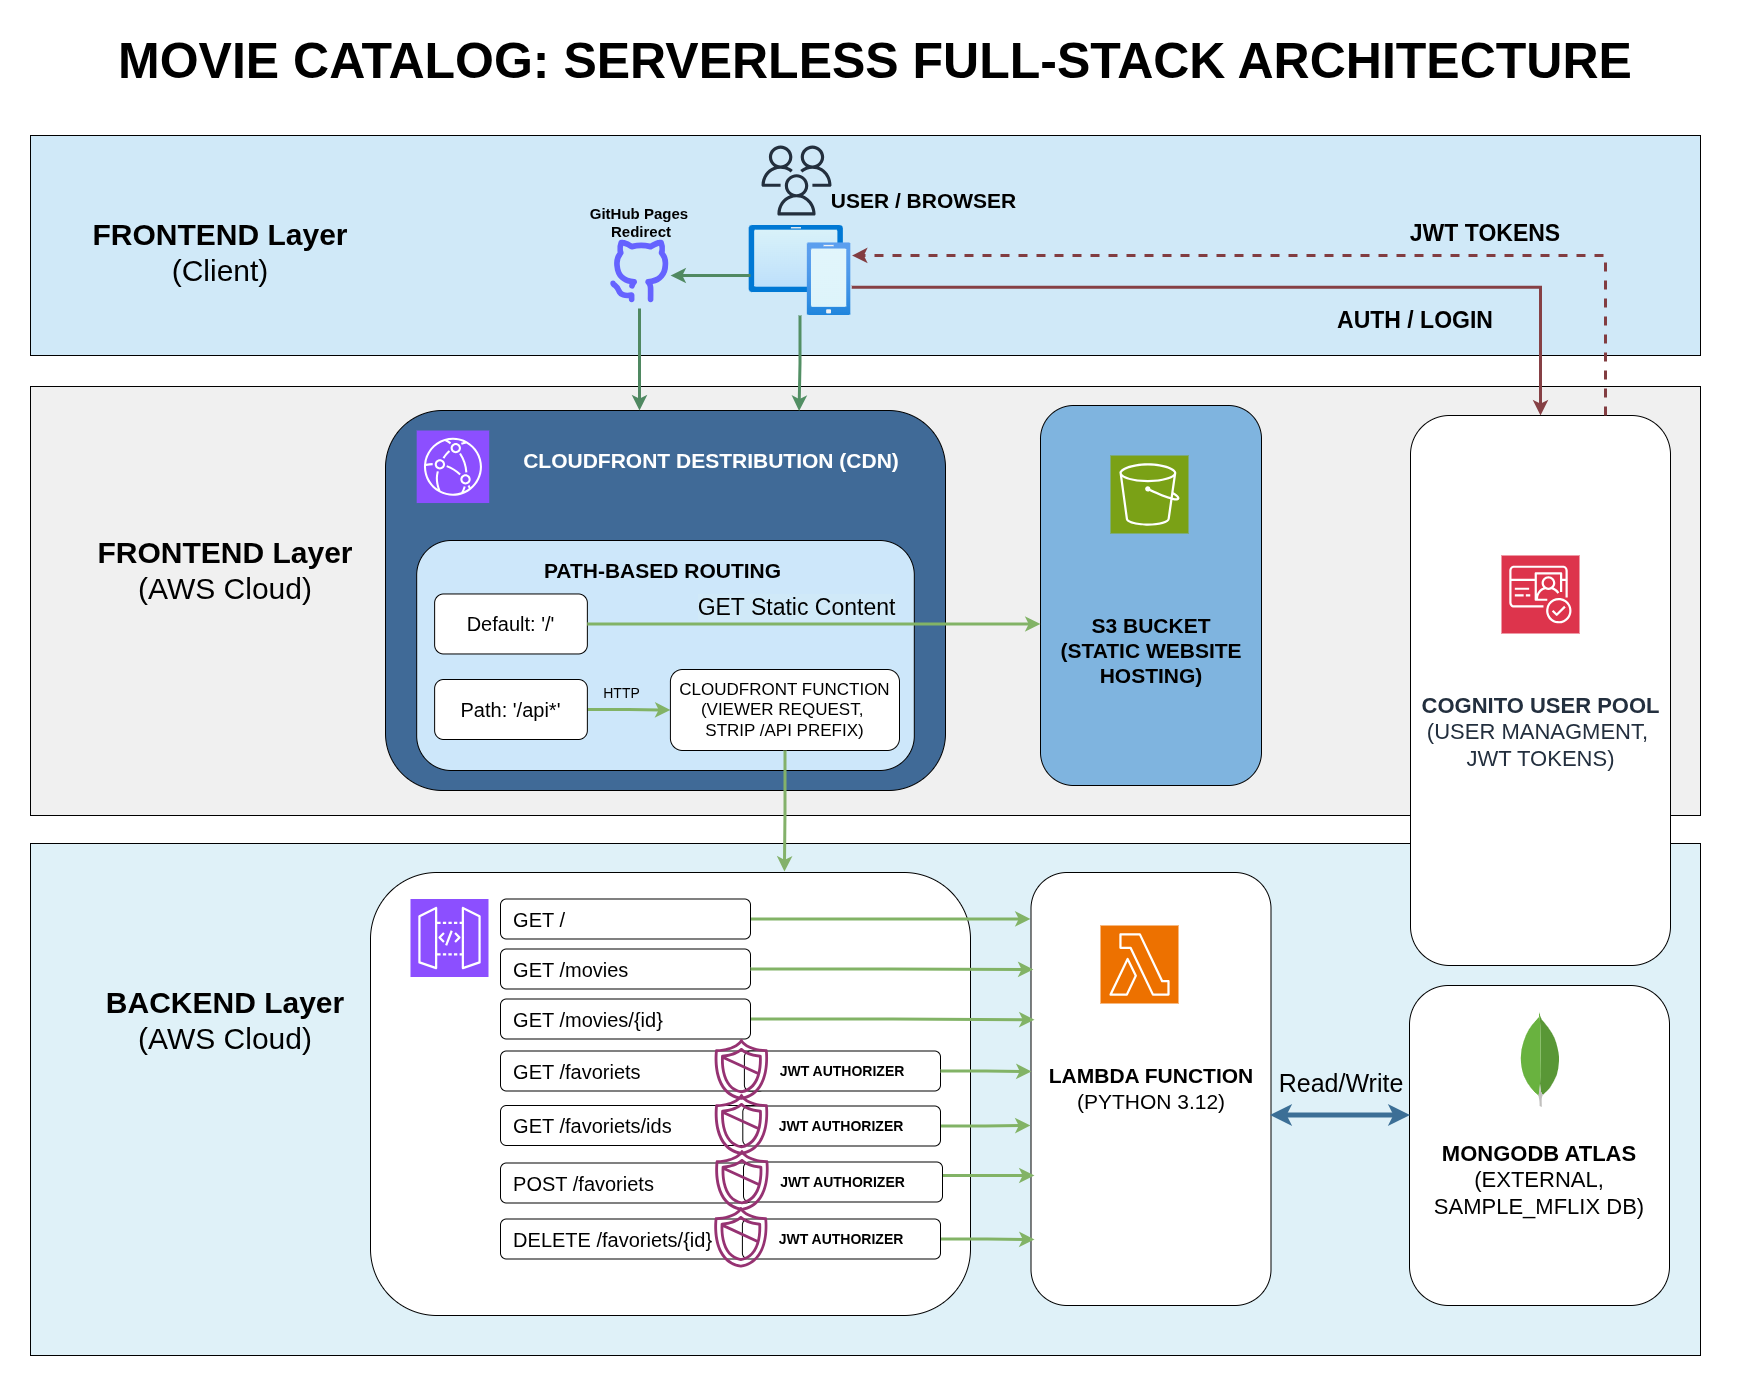
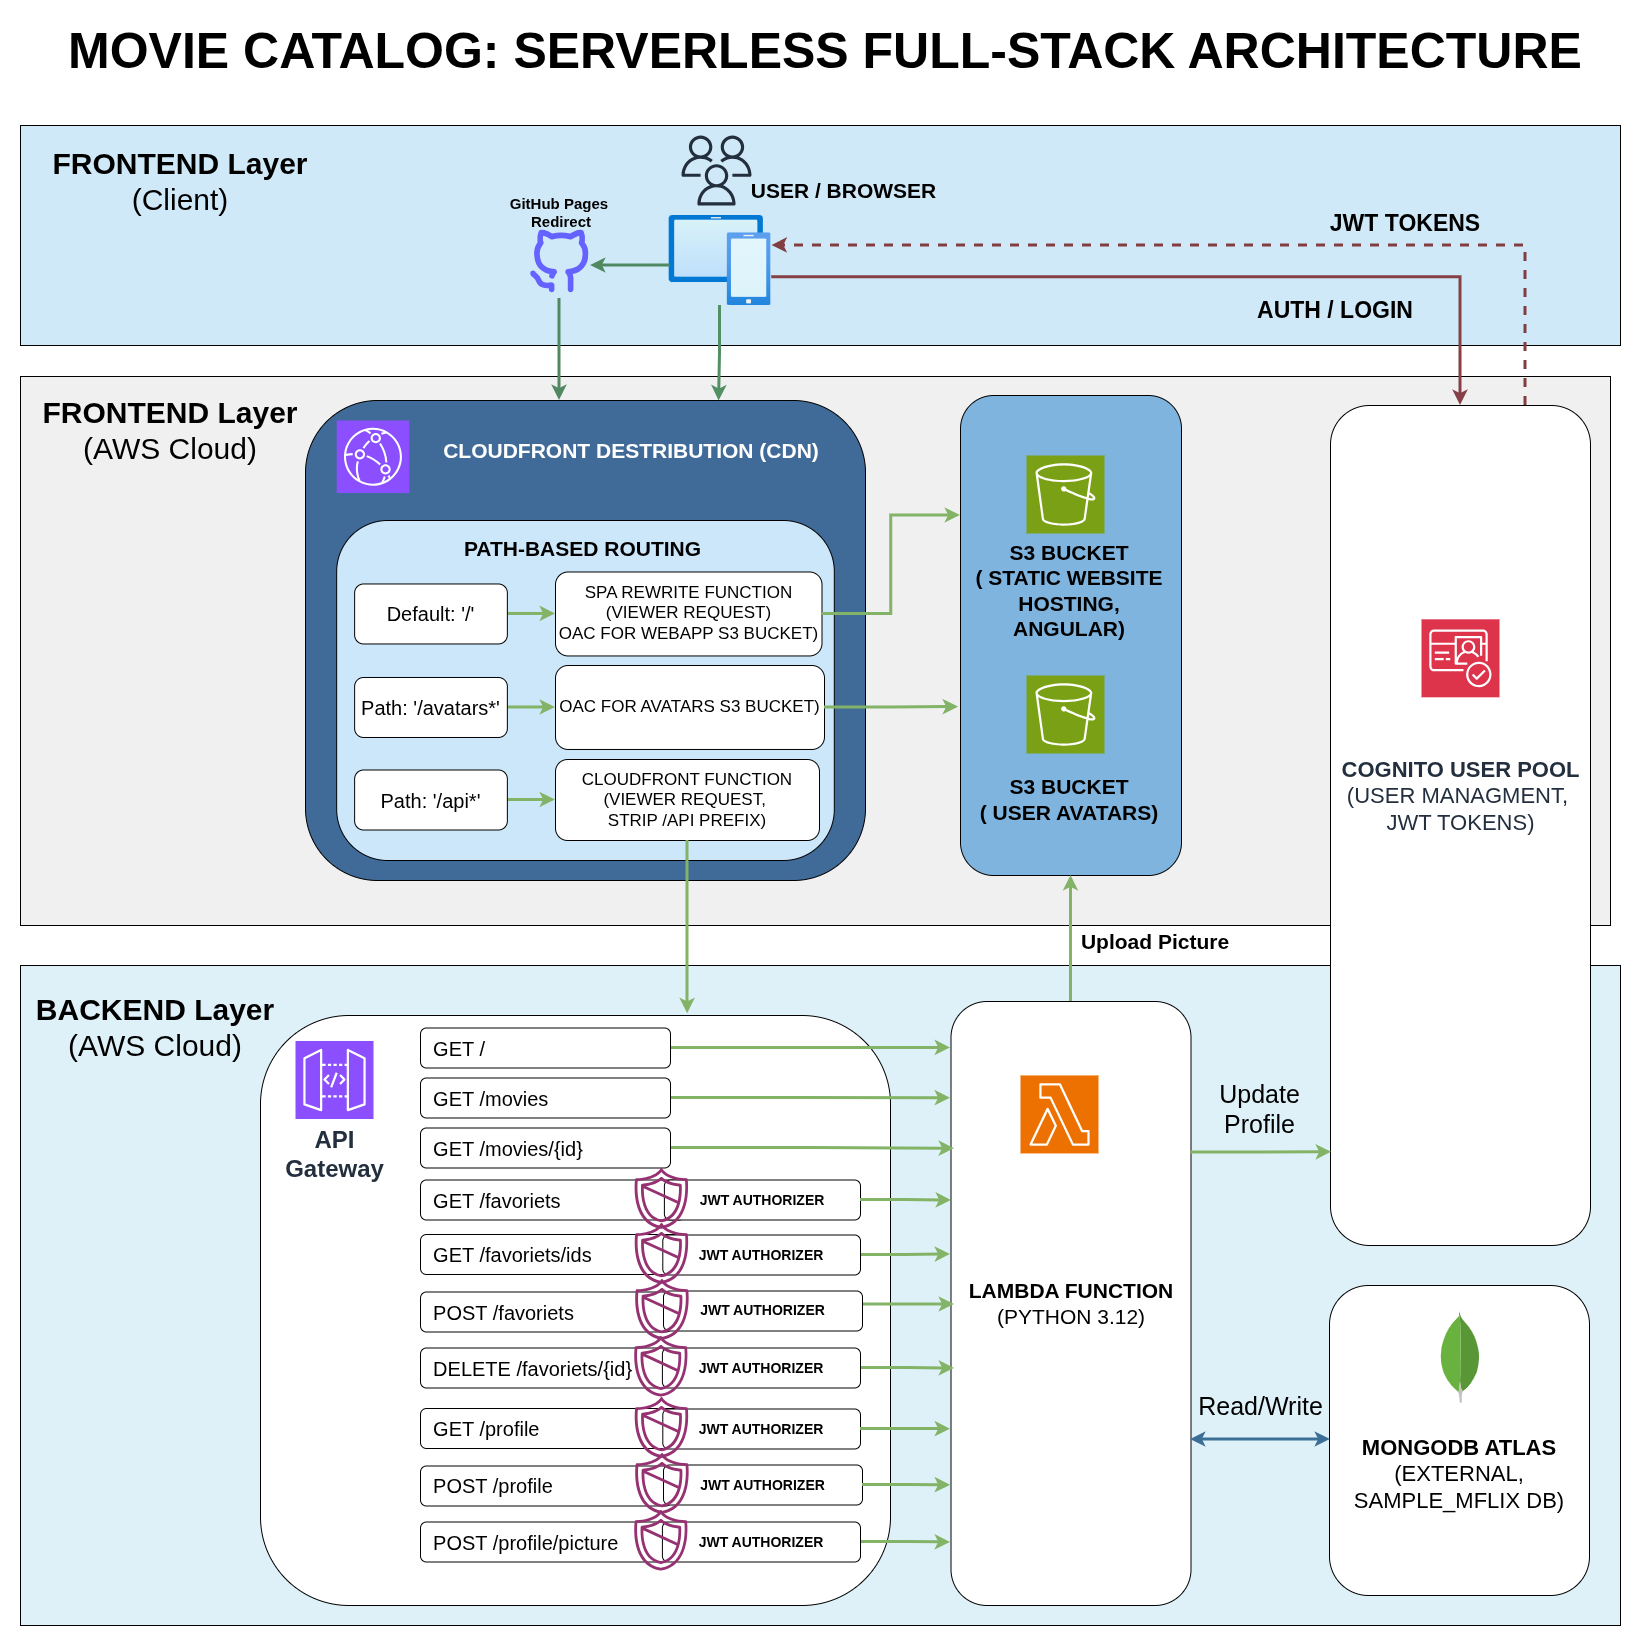
Update README with app, auth, storage, and dev/test details

diff --git a/README.md b/README.md
@@ -3,16 +3,29 @@
 This repo will host a minimal AWS serverless demo with:
 - Angular frontend hosted on S3
 - API Gateway HTTP API + AWS Lambda (Python)
+- Amazon Cognito for authentication
 - MongoDB Atlas free tier
 - Terraform for AWS infrastructure
 - GitHub Actions CI/CD (OIDC, no long-lived keys)
 
 ## About
-AWS Fullstack Serverless Movie Catalog: a lightweight Angular SPA backed by a
-serverless API, built to showcase a clean frontend experience with secure,
-scalable AWS services.
+AWS Fullstack Serverless Movie Catalog is a lightweight Angular SPA backed by a
+serverless API. The app lets users browse a curated movie catalog, view details,
+and manage a favorites list. Sign-in is handled by Amazon Cognito, and protected
+actions (like saving favorites) require a valid JWT.
 
 ![AWS movie catalog architecture](frontend/src/assets/aws-movie-catalog-architecture.png)
+
+## Screenshots
+| Movie Catalog | Favorites Page |
+|:---:|:---:|
+| <img src="pics/IMG_1.PNG" alt="Movie catalog list" width="300" style="margin: 8px;" /> | <img src="pics/IMG_2.PNG" alt="Favorites list" width="300" style="margin: 8px;" /> |
+| *Search and toggle favorites* | *Saved movies* |
+
+| Movie Details | Profile |
+|:---:|:---:|
+| <img src="pics/IMG_3.PNG" alt="Movie details" width="300" style="margin: 8px;" /> | <img src="pics/IMG_4.PNG" alt="Profile" width="300" style="margin: 8px;" /> |
+| *Metadata, genres, description* | *Avatar and account fields* |
 
 ### Architecture Summary
 - Frontend delivery: S3 static website with CloudFront acceleration. All non-API
@@ -22,15 +35,13 @@ scalable AWS services.
 - Auth & data: Cognito issues JWTs for protected routes. The Lambda function
   uses a MongoDB connection string to fetch movie data. Favorites require a
   valid token.
+- Media storage: A dedicated S3 bucket stores user avatar images.
 
 ## Structure
-- `frontend/` Angular app (placeholder)
-- `backend/` Python Lambda (placeholder)
+- `frontend/` Angular SPA (movie catalog UI)
+- `backend/` Python Lambda (API for catalog + favorites)
 - `infra/` Terraform configuration
 - `.github/workflows/` CI/CD workflows
-
-## Status
-Scaffold only. No detailed code yet.
 
 ## Local Backend (AWS SAM)
 - `cd backend`
@@ -39,15 +50,59 @@ Scaffold only. No detailed code yet.
 
 Default local API URL is `http://127.0.0.1:3000`.
 
+## Local Frontend
+From `frontend/`:
+- `npm install`
+- `npm run start`
+
+## Frontend Tests
+- Unit tests: `npm run test`
+- E2E tests (Playwright): `npm run e2e`
+
+## Backend Notes
+Layout:
+- `backend/src/app.py` Lambda handler
+- `backend/requirements.txt` runtime dependencies for SAM local build
+- `backend/template.yaml` AWS SAM template for local API emulation
+- `backend/env.json` local environment variables for SAM (`MONGODB_URI`, `MONGODB_DB`)
+- `backend/build.sh` creates Terraform deployment zip for `infra/lambda.zip`
+
+Example local request:
+- `curl "http://127.0.0.1:3000/movies?page=1"`
+
+Keep Lambda runtime aligned across `backend/template.yaml` and `infra/variables.tf`.
+
+## Debugging (SAM + VS Code)
+Prereqs:
+- `debugpy` in `backend/requirements.txt`
+- VS Code `launch.json` path mapping to `backend/`:
+
+```json
+{
+  "name": "Attach SAM Local",
+  "type": "debugpy",
+  "request": "attach",
+  "connect": { "host": "localhost", "port": 5859 },
+  "pathMappings": [
+    { "localRoot": "${workspaceFolder}/backend", "remoteRoot": "/var/task" }
+  ]
+}
+```
+
+Start SAM with debug args:
+- `sam build --use-container --cached --skip-pull-image`
+- `sam local start-api --host 0.0.0.0 --warm-containers LAZY --debug-port 5859 --debug-function BackendFunction --debug-args "-m debugpy --listen 0.0.0.0:5859 --wait-for-client"`
+
+Attach flow:
+- Hit an endpoint once (for example `curl "http://127.0.0.1:3000/movies"`).
+- SAM prints `Waiting for debugger to attach...`
+- Then click `Attach SAM Local` in VS Code.
+
 ## Frontend Build + S3 Upload
 - `npm run build -- --configuration production`
 - `aws s3 sync dist/ s3://YOUR_BUCKET_NAME/ --delete --exclude "assets/config.json"`
 
-## CI/CD prerequisites (planned)
+## CI/CD prerequisites
 - GitHub repo secrets:
   - `AWS_OIDC_ROLE_ARN`: IAM role ARN for GitHub OIDC
   - `AWS_REGION`: AWS region (e.g. `us-east-1`)
-
-## Terraform outputs (planned)
-- `api_url`: API Gateway HTTP API base URL
-- `s3_website_url`: S3 static website endpoint URL

diff --git a/frontend/README.md b/frontend/README.md
@@ -1,7 +1,11 @@
 # Frontend (Angular)
 
-Simple Angular hello world app.
+Angular SPA for the movie catalog UI (browse titles, view details, manage favorites).
 
 Run locally:
 - `npm install`
 - `npm run start`
+
+Tests:
+- Unit tests: `npm run test`
+- E2E tests (Playwright): `npm run e2e`
